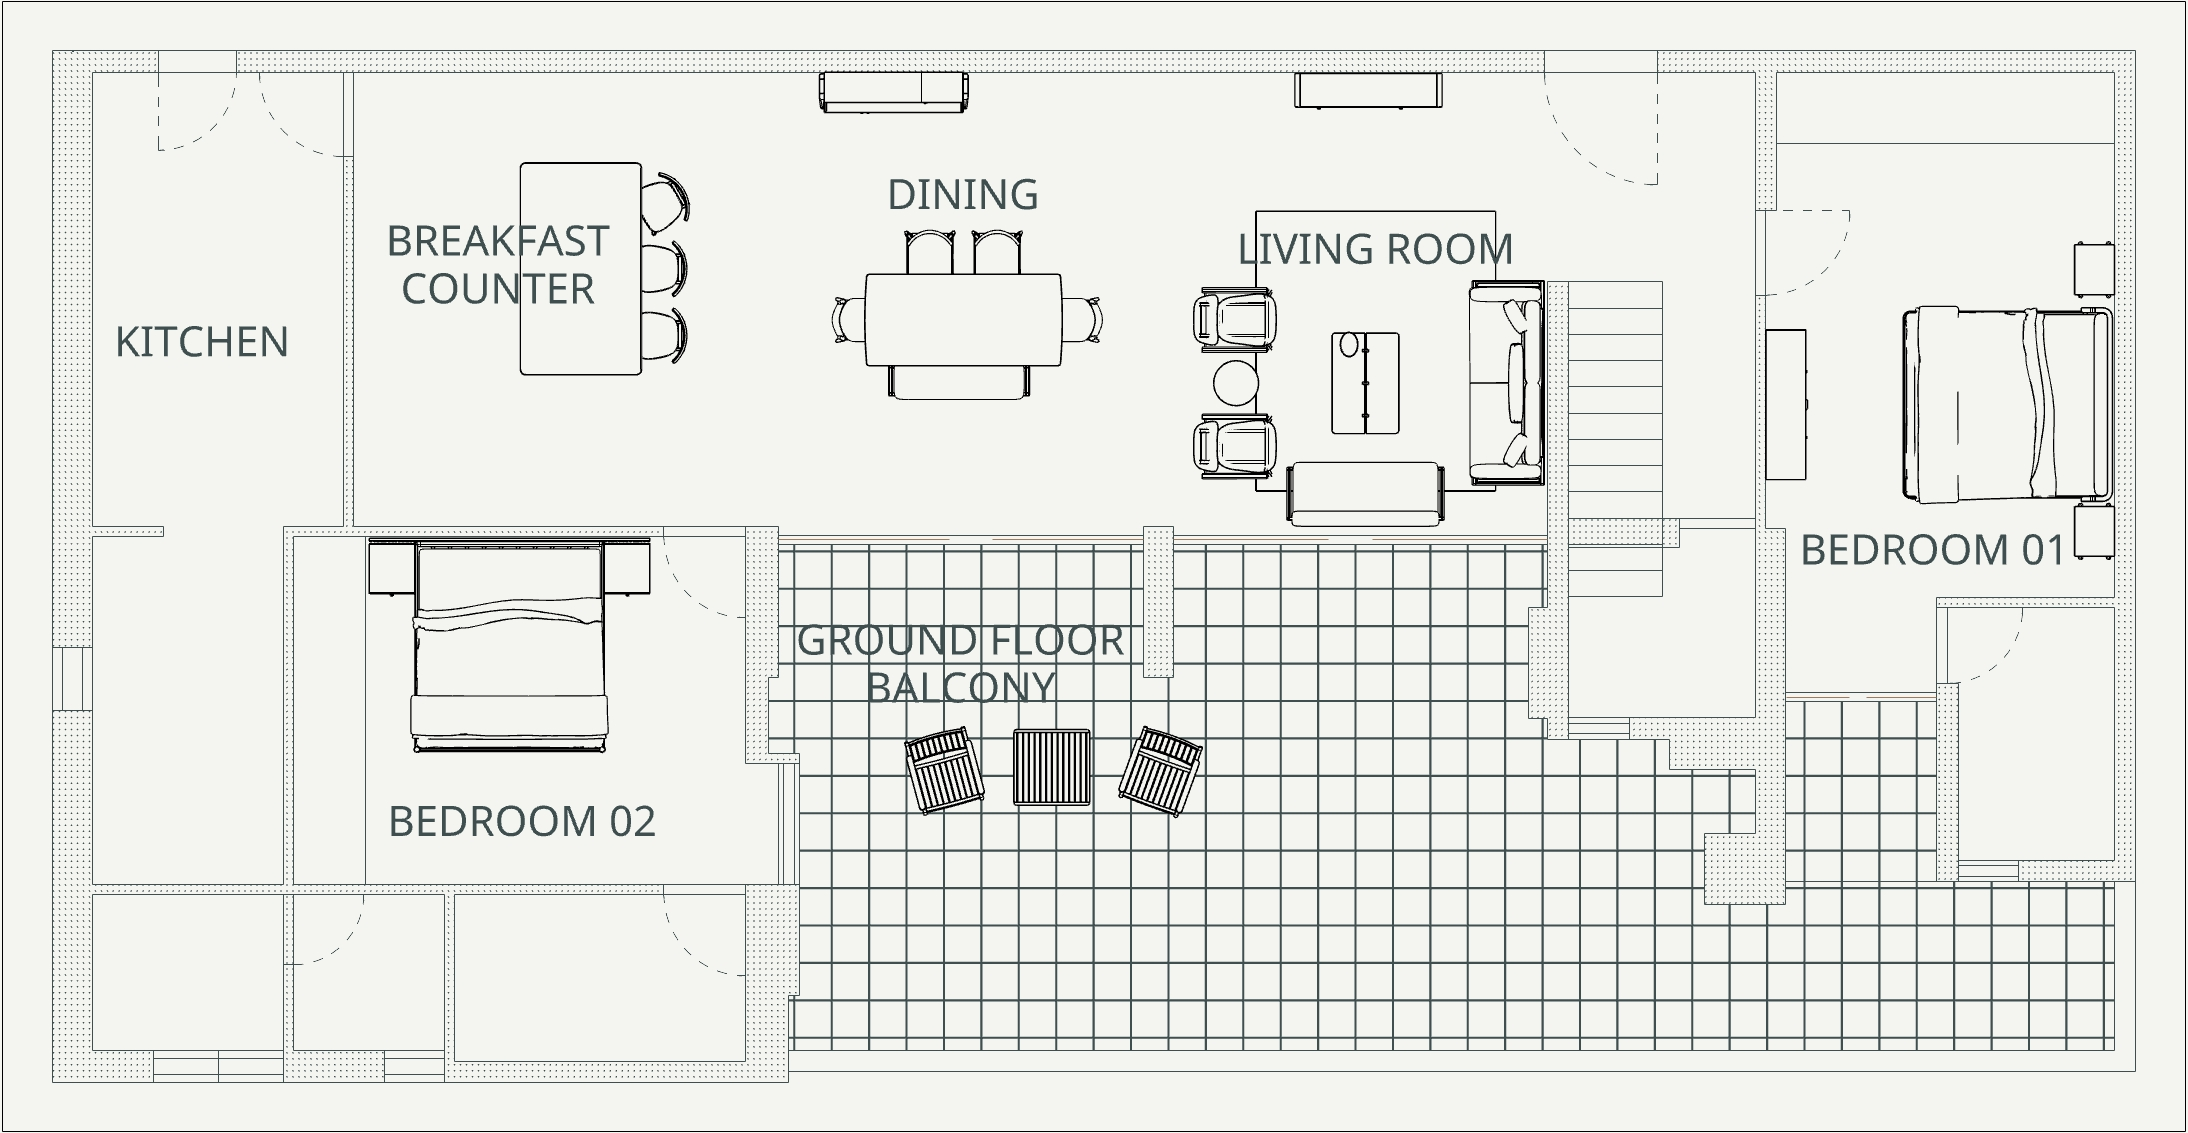
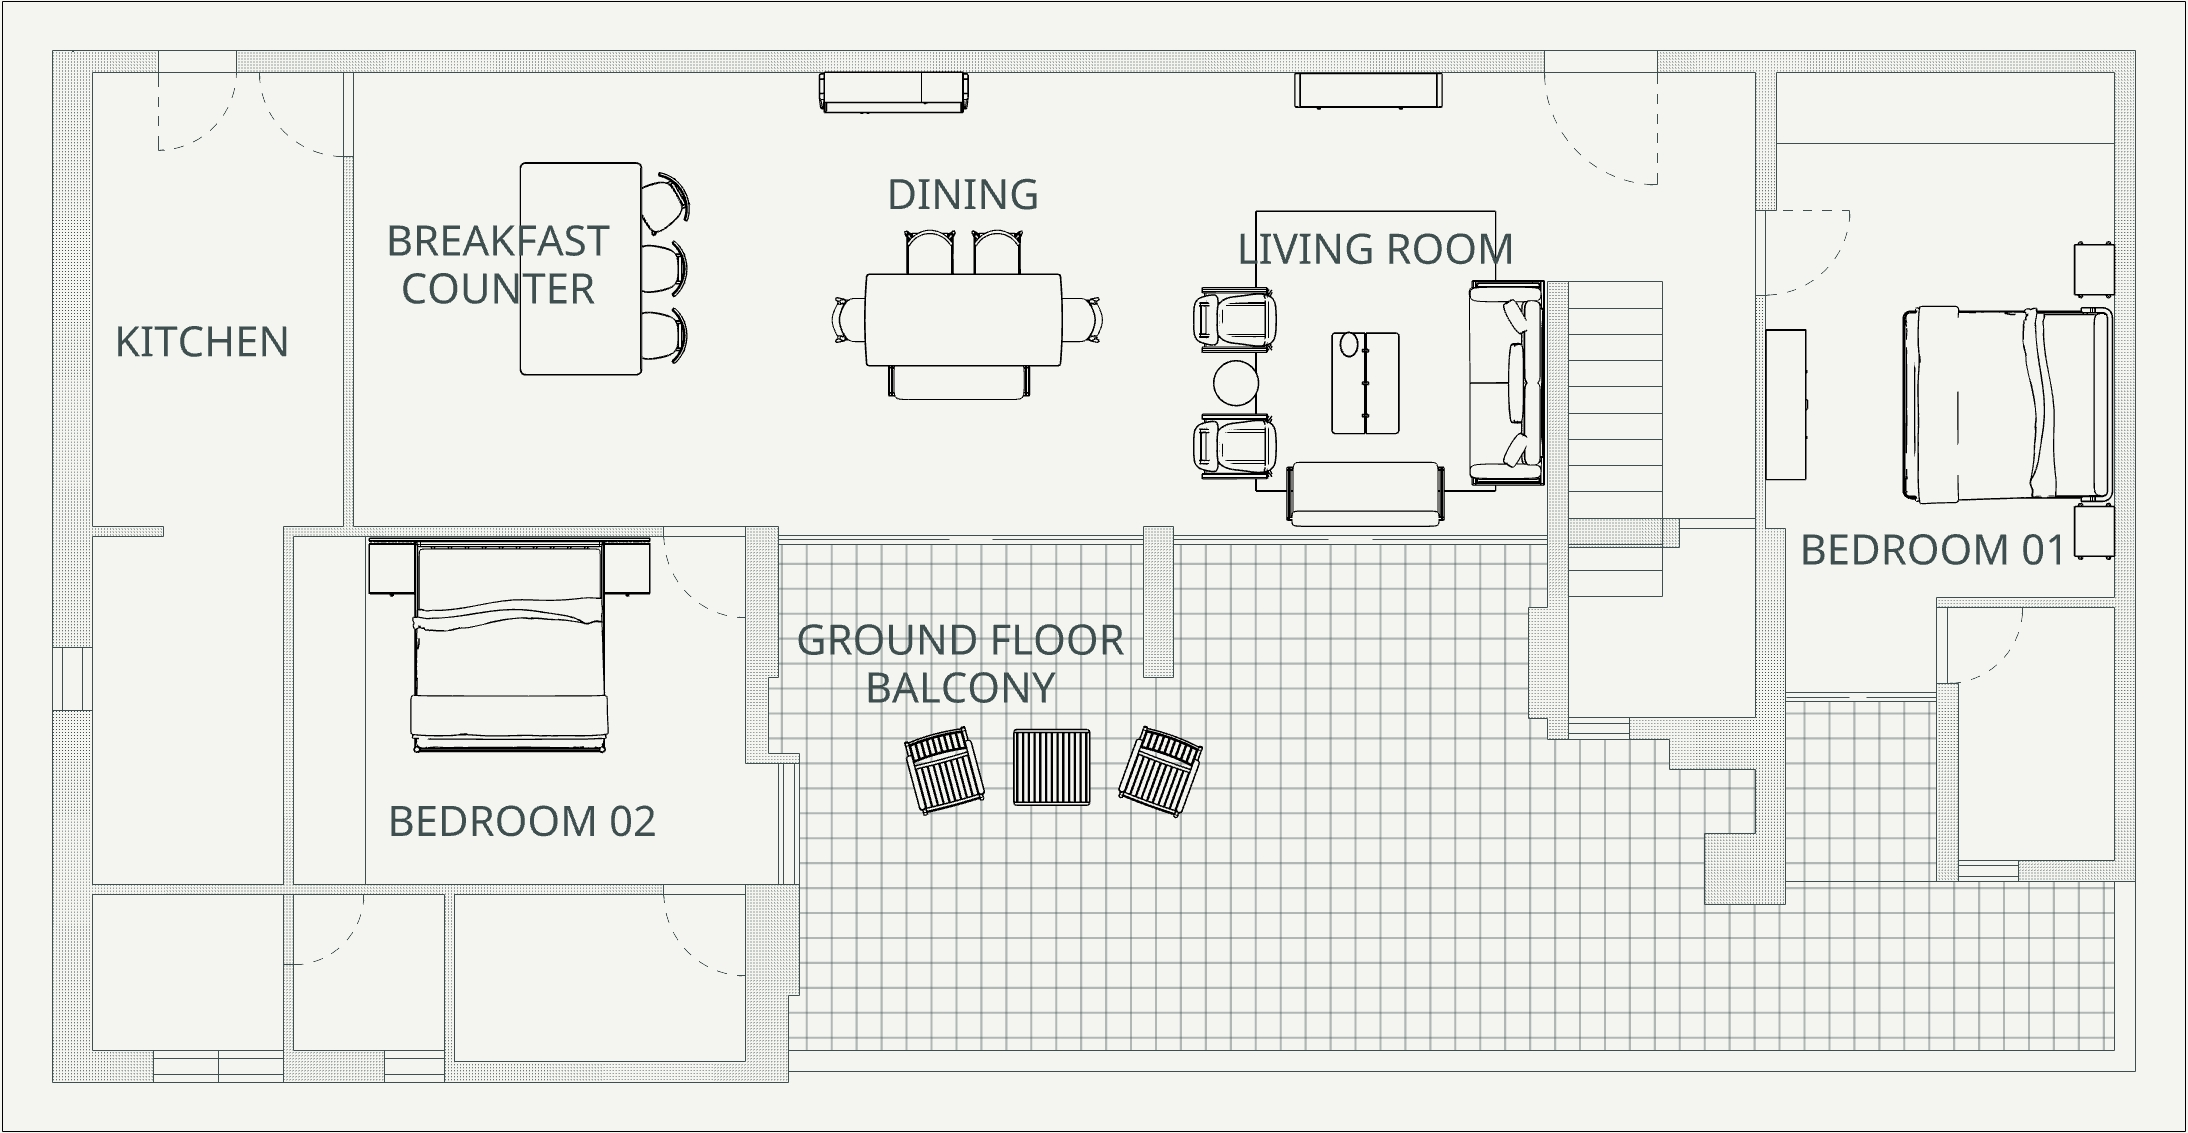
Update Modern Times keyplan hotspot coordinates to follow walls precisely

diff --git a/modern-times.html b/modern-times.html
@@ -135,17 +135,17 @@
             <image href="projects/modern-times/Layout Simplified - GF.jpg" x="0" y="0" width="2400" height="1800" />
             <g class="svg-rooms-group">
               <!-- Living Room -->
-              <rect class="svg-room-rect" id="svg-rect-room-01" x="1284" y="516" width="336" height="348" onclick="scrollToRoom('room-01')" onmouseover="highlightRoom('room-01')" onmouseout="unhighlightRoom('room-01')" />
+              <rect class="svg-room-rect" id="svg-rect-room-01" x="1284" y="79" width="412" height="756" onclick="scrollToRoom('room-01')" onmouseover="highlightRoom('room-01')" onmouseout="unhighlightRoom('room-01')" />
               <!-- Dining -->
-              <rect class="svg-room-rect" id="svg-rect-room-02" x="912" y="480" width="348" height="360" onclick="scrollToRoom('room-02')" onmouseover="highlightRoom('room-02')" onmouseout="unhighlightRoom('room-02')" />
+              <rect class="svg-room-rect" id="svg-rect-room-02" x="817" y="79" width="467" height="756" onclick="scrollToRoom('room-02')" onmouseover="highlightRoom('room-02')" onmouseout="unhighlightRoom('room-02')" />
               <!-- Ground Floor Balcony -->
-              <rect class="svg-room-rect" id="svg-rect-room-03" x="864" y="864" width="936" height="492" onclick="scrollToRoom('room-03')" onmouseover="highlightRoom('room-03')" onmouseout="unhighlightRoom('room-03')" />
+              <rect class="svg-room-rect" id="svg-rect-room-03" x="817" y="835" width="1108" height="866" onclick="scrollToRoom('room-03')" onmouseover="highlightRoom('room-03')" onmouseout="unhighlightRoom('room-03')" />
               <!-- Breakfast Counter -->
-              <rect class="svg-room-rect" id="svg-rect-room-04" x="516" y="480" width="396" height="360" onclick="scrollToRoom('room-04')" onmouseover="highlightRoom('room-04')" onmouseout="unhighlightRoom('room-04')" />
+              <rect class="svg-room-rect" id="svg-rect-room-04" x="387" y="79" width="430" height="756" onclick="scrollToRoom('room-04')" onmouseover="highlightRoom('room-04')" onmouseout="unhighlightRoom('room-04')" />
               <!-- Bedroom 01 -->
-              <rect class="svg-room-rect" id="svg-rect-room-05" x="1850" y="500" width="330" height="352" onclick="scrollToRoom('room-05')" onmouseover="highlightRoom('room-05')" onmouseout="unhighlightRoom('room-05')" />
+              <rect class="svg-room-rect" id="svg-rect-room-05" x="1925" y="79" width="417" height="1325" onclick="scrollToRoom('room-05')" onmouseover="highlightRoom('room-05')" onmouseout="unhighlightRoom('room-05')" />
               <!-- Bedroom 02 -->
-              <rect class="svg-room-rect" id="svg-rect-room-06" x="432" y="864" width="420" height="312" onclick="scrollToRoom('room-06')" onmouseover="highlightRoom('room-06')" onmouseout="unhighlightRoom('room-06')" />
+              <rect class="svg-room-rect" id="svg-rect-room-06" x="321" y="835" width="496" height="569" onclick="scrollToRoom('room-06')" onmouseover="highlightRoom('room-06')" onmouseout="unhighlightRoom('room-06')" />
             </g>
           </svg>
         </div>
@@ -154,11 +154,11 @@
             <image href="projects/modern-times/Layout Simplified - FF.jpg" x="0" y="0" width="2400" height="1800" />
             <g class="svg-rooms-group">
               <!-- Bedroom 03 -->
-              <rect class="svg-room-rect" id="svg-rect-room-07" x="1850" y="500" width="330" height="352" onclick="scrollToRoom('room-07')" onmouseover="highlightRoom('room-07')" onmouseout="unhighlightRoom('room-07')" />
+              <rect class="svg-room-rect" id="svg-rect-room-07" x="1925" y="79" width="417" height="1325" onclick="scrollToRoom('room-07')" onmouseover="highlightRoom('room-07')" onmouseout="unhighlightRoom('room-07')" />
               <!-- Master Bedroom -->
-              <rect class="svg-room-rect" id="svg-rect-room-08" x="444" y="504" width="396" height="384" onclick="scrollToRoom('room-08')" onmouseover="highlightRoom('room-08')" onmouseout="unhighlightRoom('room-08')" />
+              <rect class="svg-room-rect" id="svg-rect-room-08" x="321" y="79" width="496" height="1325" onclick="scrollToRoom('room-08')" onmouseover="highlightRoom('room-08')" onmouseout="unhighlightRoom('room-08')" />
               <!-- First Floor Balcony -->
-              <rect class="svg-room-rect" id="svg-rect-room-09" x="492" y="912" width="360" height="264" onclick="scrollToRoom('room-09')" onmouseover="highlightRoom('room-09')" onmouseout="unhighlightRoom('room-09')" />
+              <rect class="svg-room-rect" id="svg-rect-room-09" x="400" y="1042" width="417" height="362" onclick="scrollToRoom('room-09')" onmouseover="highlightRoom('room-09')" onmouseout="unhighlightRoom('room-09')" />
             </g>
           </svg>
         </div>
@@ -328,7 +328,7 @@
             <div class="map-svg-wrapper">
               <svg viewBox="0 0 2400 1800" fill="none" xmlns="http://www.w3.org/2000/svg">
                       <image href="projects/modern-times/Layout Simplified - GF.jpg" x="0" y="0" width="2400" height="1800" />
-                      <rect x="1284" y="516" width="336" height="348" fill="#a27b5c" fill-opacity="0.4" stroke="#a27b5c" stroke-width="15" />
+                      <rect x="1284" y="79" width="412" height="756" fill="#a27b5c" fill-opacity="0.4" stroke="#a27b5c" stroke-width="15" />
                     </svg>
             </div>
           </div>
@@ -451,7 +451,7 @@
             <div class="map-svg-wrapper">
               <svg viewBox="0 0 2400 1800" fill="none" xmlns="http://www.w3.org/2000/svg">
                       <image href="projects/modern-times/Layout Simplified - GF.jpg" x="0" y="0" width="2400" height="1800" />
-                      <rect x="912" y="480" width="348" height="360" fill="#a27b5c" fill-opacity="0.4" stroke="#a27b5c" stroke-width="15" />
+                      <rect x="817" y="79" width="467" height="756" fill="#a27b5c" fill-opacity="0.4" stroke="#a27b5c" stroke-width="15" />
                     </svg>
             </div>
           </div>
@@ -557,7 +557,7 @@
             <div class="map-svg-wrapper">
               <svg viewBox="0 0 2400 1800" fill="none" xmlns="http://www.w3.org/2000/svg">
                       <image href="projects/modern-times/Layout Simplified - GF.jpg" x="0" y="0" width="2400" height="1800" />
-                      <rect x="864" y="864" width="936" height="492" fill="#a27b5c" fill-opacity="0.4" stroke="#a27b5c" stroke-width="15" />
+                      <rect x="817" y="835" width="1108" height="866" fill="#a27b5c" fill-opacity="0.4" stroke="#a27b5c" stroke-width="15" />
                     </svg>
             </div>
           </div>
@@ -637,7 +637,7 @@
             <div class="map-svg-wrapper">
               <svg viewBox="0 0 2400 1800" fill="none" xmlns="http://www.w3.org/2000/svg">
                       <image href="projects/modern-times/Layout Simplified - GF.jpg" x="0" y="0" width="2400" height="1800" />
-                      <rect x="516" y="480" width="396" height="360" fill="#a27b5c" fill-opacity="0.4" stroke="#a27b5c" stroke-width="15" />
+                      <rect x="387" y="79" width="430" height="756" fill="#a27b5c" fill-opacity="0.4" stroke="#a27b5c" stroke-width="15" />
                     </svg>
             </div>
           </div>
@@ -733,7 +733,7 @@
             <div class="map-svg-wrapper">
               <svg viewBox="0 0 2400 1800" fill="none" xmlns="http://www.w3.org/2000/svg">
                       <image href="projects/modern-times/Layout Simplified - GF.jpg" x="0" y="0" width="2400" height="1800" />
-                      <rect x="1850" y="500" width="330" height="352" fill="#a27b5c" fill-opacity="0.4" stroke="#a27b5c" stroke-width="15" />
+                      <rect x="1925" y="79" width="417" height="1325" fill="#a27b5c" fill-opacity="0.4" stroke="#a27b5c" stroke-width="15" />
                     </svg>
             </div>
           </div>
@@ -826,7 +826,7 @@
             <div class="map-svg-wrapper">
               <svg viewBox="0 0 2400 1800" fill="none" xmlns="http://www.w3.org/2000/svg">
                       <image href="projects/modern-times/Layout Simplified - GF.jpg" x="0" y="0" width="2400" height="1800" />
-                      <rect x="432" y="864" width="420" height="312" fill="#a27b5c" fill-opacity="0.4" stroke="#a27b5c" stroke-width="15" />
+                      <rect x="321" y="835" width="496" height="569" fill="#a27b5c" fill-opacity="0.4" stroke="#a27b5c" stroke-width="15" />
                     </svg>
             </div>
           </div>
@@ -897,7 +897,7 @@
             <div class="map-svg-wrapper">
               <svg viewBox="0 0 2400 1800" fill="none" xmlns="http://www.w3.org/2000/svg">
                       <image href="projects/modern-times/Layout Simplified - FF.jpg" x="0" y="0" width="2400" height="1800" />
-                      <rect x="1850" y="500" width="330" height="352" fill="#a27b5c" fill-opacity="0.4" stroke="#a27b5c" stroke-width="15" />
+                      <rect x="1925" y="79" width="417" height="1325" fill="#a27b5c" fill-opacity="0.4" stroke="#a27b5c" stroke-width="15" />
                     </svg>
             </div>
           </div>
@@ -994,7 +994,7 @@
             <div class="map-svg-wrapper">
               <svg viewBox="0 0 2400 1800" fill="none" xmlns="http://www.w3.org/2000/svg">
                       <image href="projects/modern-times/Layout Simplified - FF.jpg" x="0" y="0" width="2400" height="1800" />
-                      <rect x="444" y="504" width="396" height="384" fill="#a27b5c" fill-opacity="0.4" stroke="#a27b5c" stroke-width="15" />
+                      <rect x="321" y="79" width="496" height="1325" fill="#a27b5c" fill-opacity="0.4" stroke="#a27b5c" stroke-width="15" />
                     </svg>
             </div>
           </div>
@@ -1125,7 +1125,7 @@
             <div class="map-svg-wrapper">
               <svg viewBox="0 0 2400 1800" fill="none" xmlns="http://www.w3.org/2000/svg">
                       <image href="projects/modern-times/Layout Simplified - FF.jpg" x="0" y="0" width="2400" height="1800" />
-                      <rect x="492" y="912" width="360" height="264" fill="#a27b5c" fill-opacity="0.4" stroke="#a27b5c" stroke-width="15" />
+                      <rect x="400" y="1042" width="417" height="362" fill="#a27b5c" fill-opacity="0.4" stroke="#a27b5c" stroke-width="15" />
                     </svg>
             </div>
           </div>

diff --git a/projects.py b/projects.py
@@ -65,17 +65,17 @@ _MT_QUOTES = {
 # Modern Times is a two-floor home. Hotspot rects are in each plan's native
 # 2400x1800 space (room id -> SVG rect attrs), split by the floor the room sits on.
 _MT_GF_HOTSPOTS = {
-    "room-01": 'x="1284" y="516" width="336" height="348"',   # Living Room
-    "room-02": 'x="912" y="480" width="348" height="360"',    # Dining
-    "room-03": 'x="864" y="864" width="936" height="492"',    # Ground Floor Balcony
-    "room-04": 'x="516" y="480" width="396" height="360"',    # Breakfast Counter
-    "room-05": 'x="1850" y="500" width="330" height="352"',   # Bedroom 01
-    "room-06": 'x="432" y="864" width="420" height="312"',    # Bedroom 02
+    "room-01": 'x="1284" y="79" width="412" height="756"',    # Living Room
+    "room-02": 'x="817" y="79" width="467" height="756"',     # Dining
+    "room-03": 'x="817" y="835" width="1108" height="866"',   # Ground Floor Balcony
+    "room-04": 'x="387" y="79" width="430" height="756"',     # Breakfast Counter
+    "room-05": 'x="1925" y="79" width="417" height="1325"',   # Bedroom 01
+    "room-06": 'x="321" y="835" width="496" height="569"',    # Bedroom 02
 }
 _MT_FF_HOTSPOTS = {
-    "room-07": 'x="1850" y="500" width="330" height="352"',   # Bedroom 03
-    "room-08": 'x="444" y="504" width="396" height="384"',    # Master Bedroom
-    "room-09": 'x="492" y="912" width="360" height="264"',    # First Floor Balcony
+    "room-07": 'x="1925" y="79" width="417" height="1325"',   # Bedroom 03
+    "room-08": 'x="321" y="79" width="496" height="1325"',    # Master Bedroom
+    "room-09": 'x="400" y="1042" width="417" height="362"',   # First Floor Balcony
 }
 
 _MT_LAYOUT_IMAGES = {